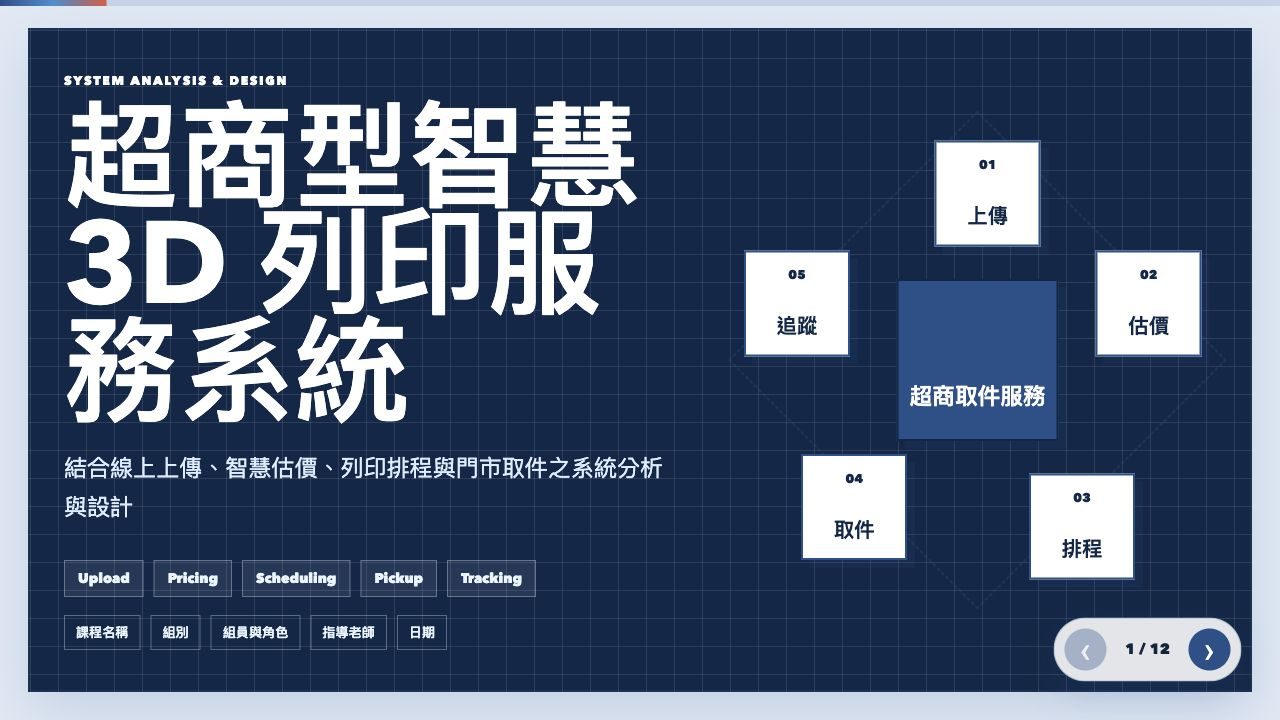
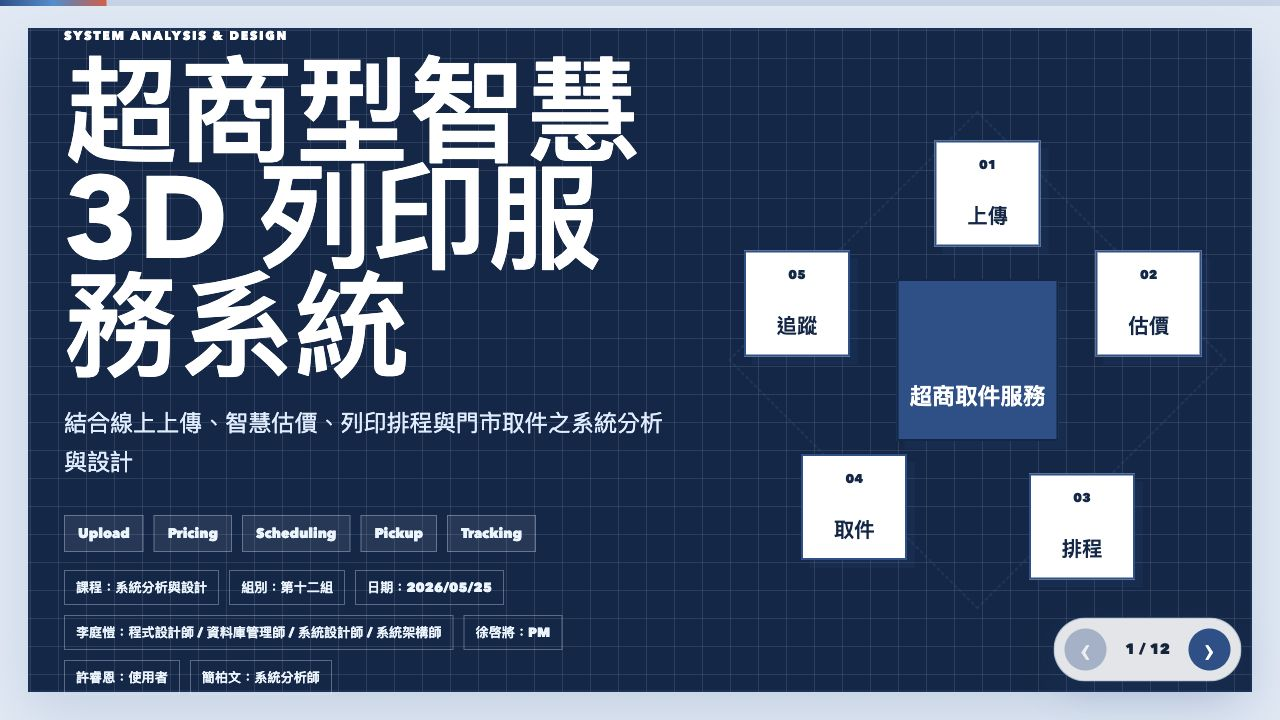
Add course and team details

Changed region(s): [[0.0312, 0.0306, 0.5312, 0.8861], [0.0625, 0.9167, 0.25, 0.9472]]

diff --git a/deck-data.js b/deck-data.js
@@ -3,7 +3,15 @@ window.PRESENTATION_DECK = {
   title: "超商型智慧 3D 列印服務系統",
   subtitle: "結合線上上傳、智慧估價、列印排程與門市取件之系統分析與設計",
   tags: ["Upload", "Pricing", "Scheduling", "Pickup", "Tracking"],
-  coverMeta: ["課程名稱", "組別", "組員與角色", "指導老師", "日期"],
+  coverMeta: [
+    "課程：系統分析與設計",
+    "組別：第十二組",
+    "日期：2026/05/25",
+    "李庭愷：程式設計師 / 資料庫管理師 / 系統設計師 / 系統架構師",
+    "徐啓將：PM",
+    "許睿恩：使用者",
+    "簡柏文：系統分析師"
+  ],
   coverNodes: ["上傳", "估價", "排程", "取件", "追蹤"],
   coreLabel: "3D Print",
   coreTitle: "超商取件服務",
@@ -70,12 +78,12 @@ window.PRESENTATION_DECK = {
       eyebrow: "Team Roles",
       title: "組員角色與分工",
       note: "系統分析師協助程式設計師定義資料欄位、功能流程、API 需求與測試案例，使程式設計能依照需求規格進行。",
-      columns: ["角色", "負責內容", "對應產出"],
+      columns: ["組員", "角色", "負責內容"],
       rows: [
-        ["使用者代表", "痛點、需求、使用情境、驗收標準", "使用者需求分析"],
-        ["PM", "專案目標、範圍、時程、可行性、風險", "系統規劃書"],
-        ["系統分析師", "需求整理、Use Case、DFD、ERD、流程分析", "系統需求書"],
-        ["程式設計師", "系統架構、資料庫、介面原型、Demo", "設計規格與原型"]
+        ["李庭愷", "程式設計師 / 資料庫管理師 / 系統設計師 / 系統架構師", "系統架構、資料庫設計、介面原型、Demo 與技術規格"],
+        ["徐啓將", "PM", "專案目標、範圍、時程、可行性與風險控管"],
+        ["許睿恩", "使用者", "痛點、需求、使用情境與驗收標準"],
+        ["簡柏文", "系統分析師", "需求整理、Use Case、DFD、ERD 與流程分析"]
       ]
     },
     {
